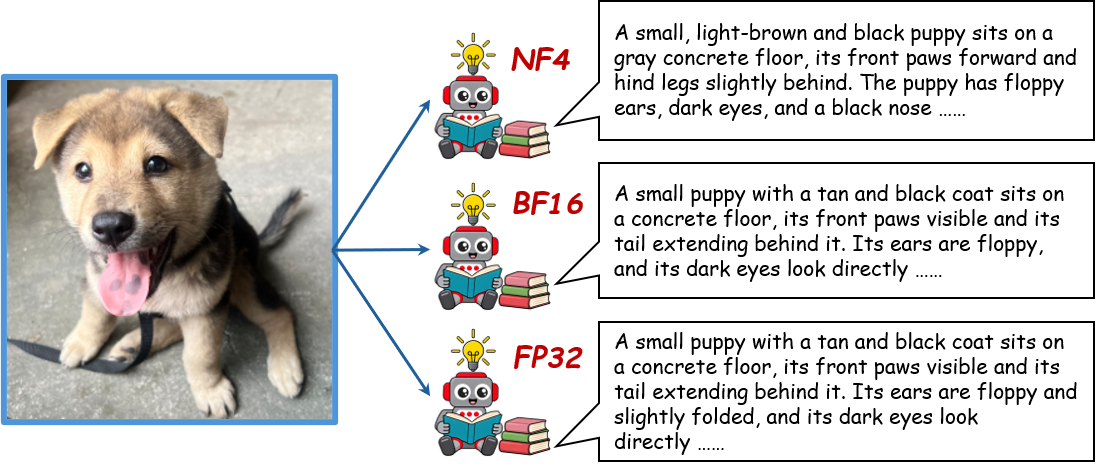
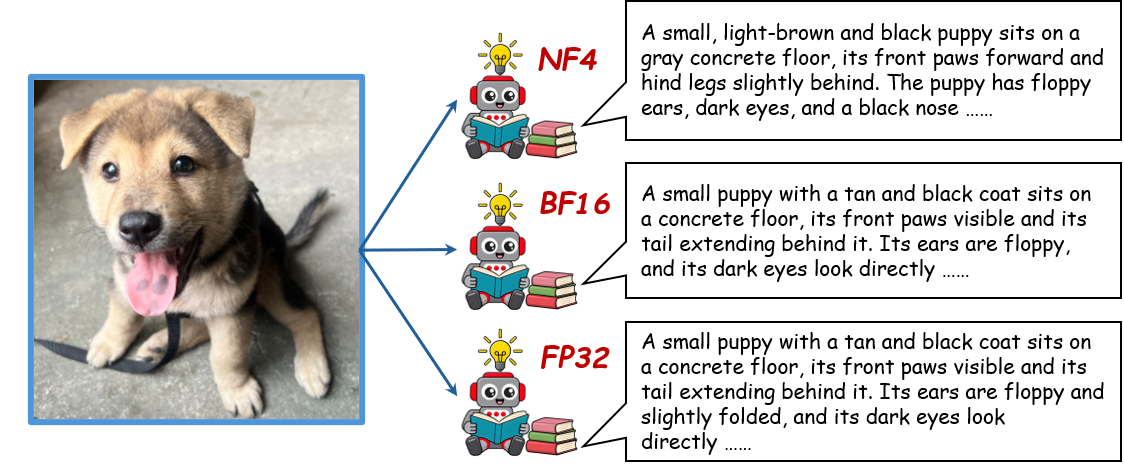
Refine research biography and adjust precision article covers

diff --git a/content/_index.md b/content/_index.md
@@ -39,9 +39,7 @@ sections:
       title: Research
       subtitle: ''
       text: |-
-        My research lies at the intersection of structural fire engineering and data-driven computational methods. I study the fire resistance and post-fire behaviour of concrete and composite structures, with interests in high-temperature material behaviour, structural assessment, and AI-enabled prediction.
-
-        See my [Google Scholar profile](https://scholar.google.com/citations?user=l23iS4EAAAAJ&hl=zh-TW) for publications.
+        For details of my research and publications, see my [Google Scholar profile](https://scholar.google.com/citations?user=l23iS4EAAAAJ&hl=zh-TW).
     design:
       columns: '1'
   - block: cta-card

diff --git a/content/blog/precision-inference-comparison-zh/index.md b/content/blog/precision-inference-comparison-zh/index.md
@@ -14,6 +14,7 @@ tags:
 build:
   list: never
 image:
+  focal_point: Left
   caption: "同一张小狗照片在 NF4、BF16 与 FP32 推理精度下生成的描述。"
 ---
 

diff --git a/content/blog/precision-inference-comparison/index.md b/content/blog/precision-inference-comparison/index.md
@@ -12,6 +12,7 @@ tags:
   - LLMs
   - GPU Inference
 image:
+  focal_point: Left
   caption: "The same puppy image, captioned using NF4, BF16, and FP32 inference."
 ---
 
